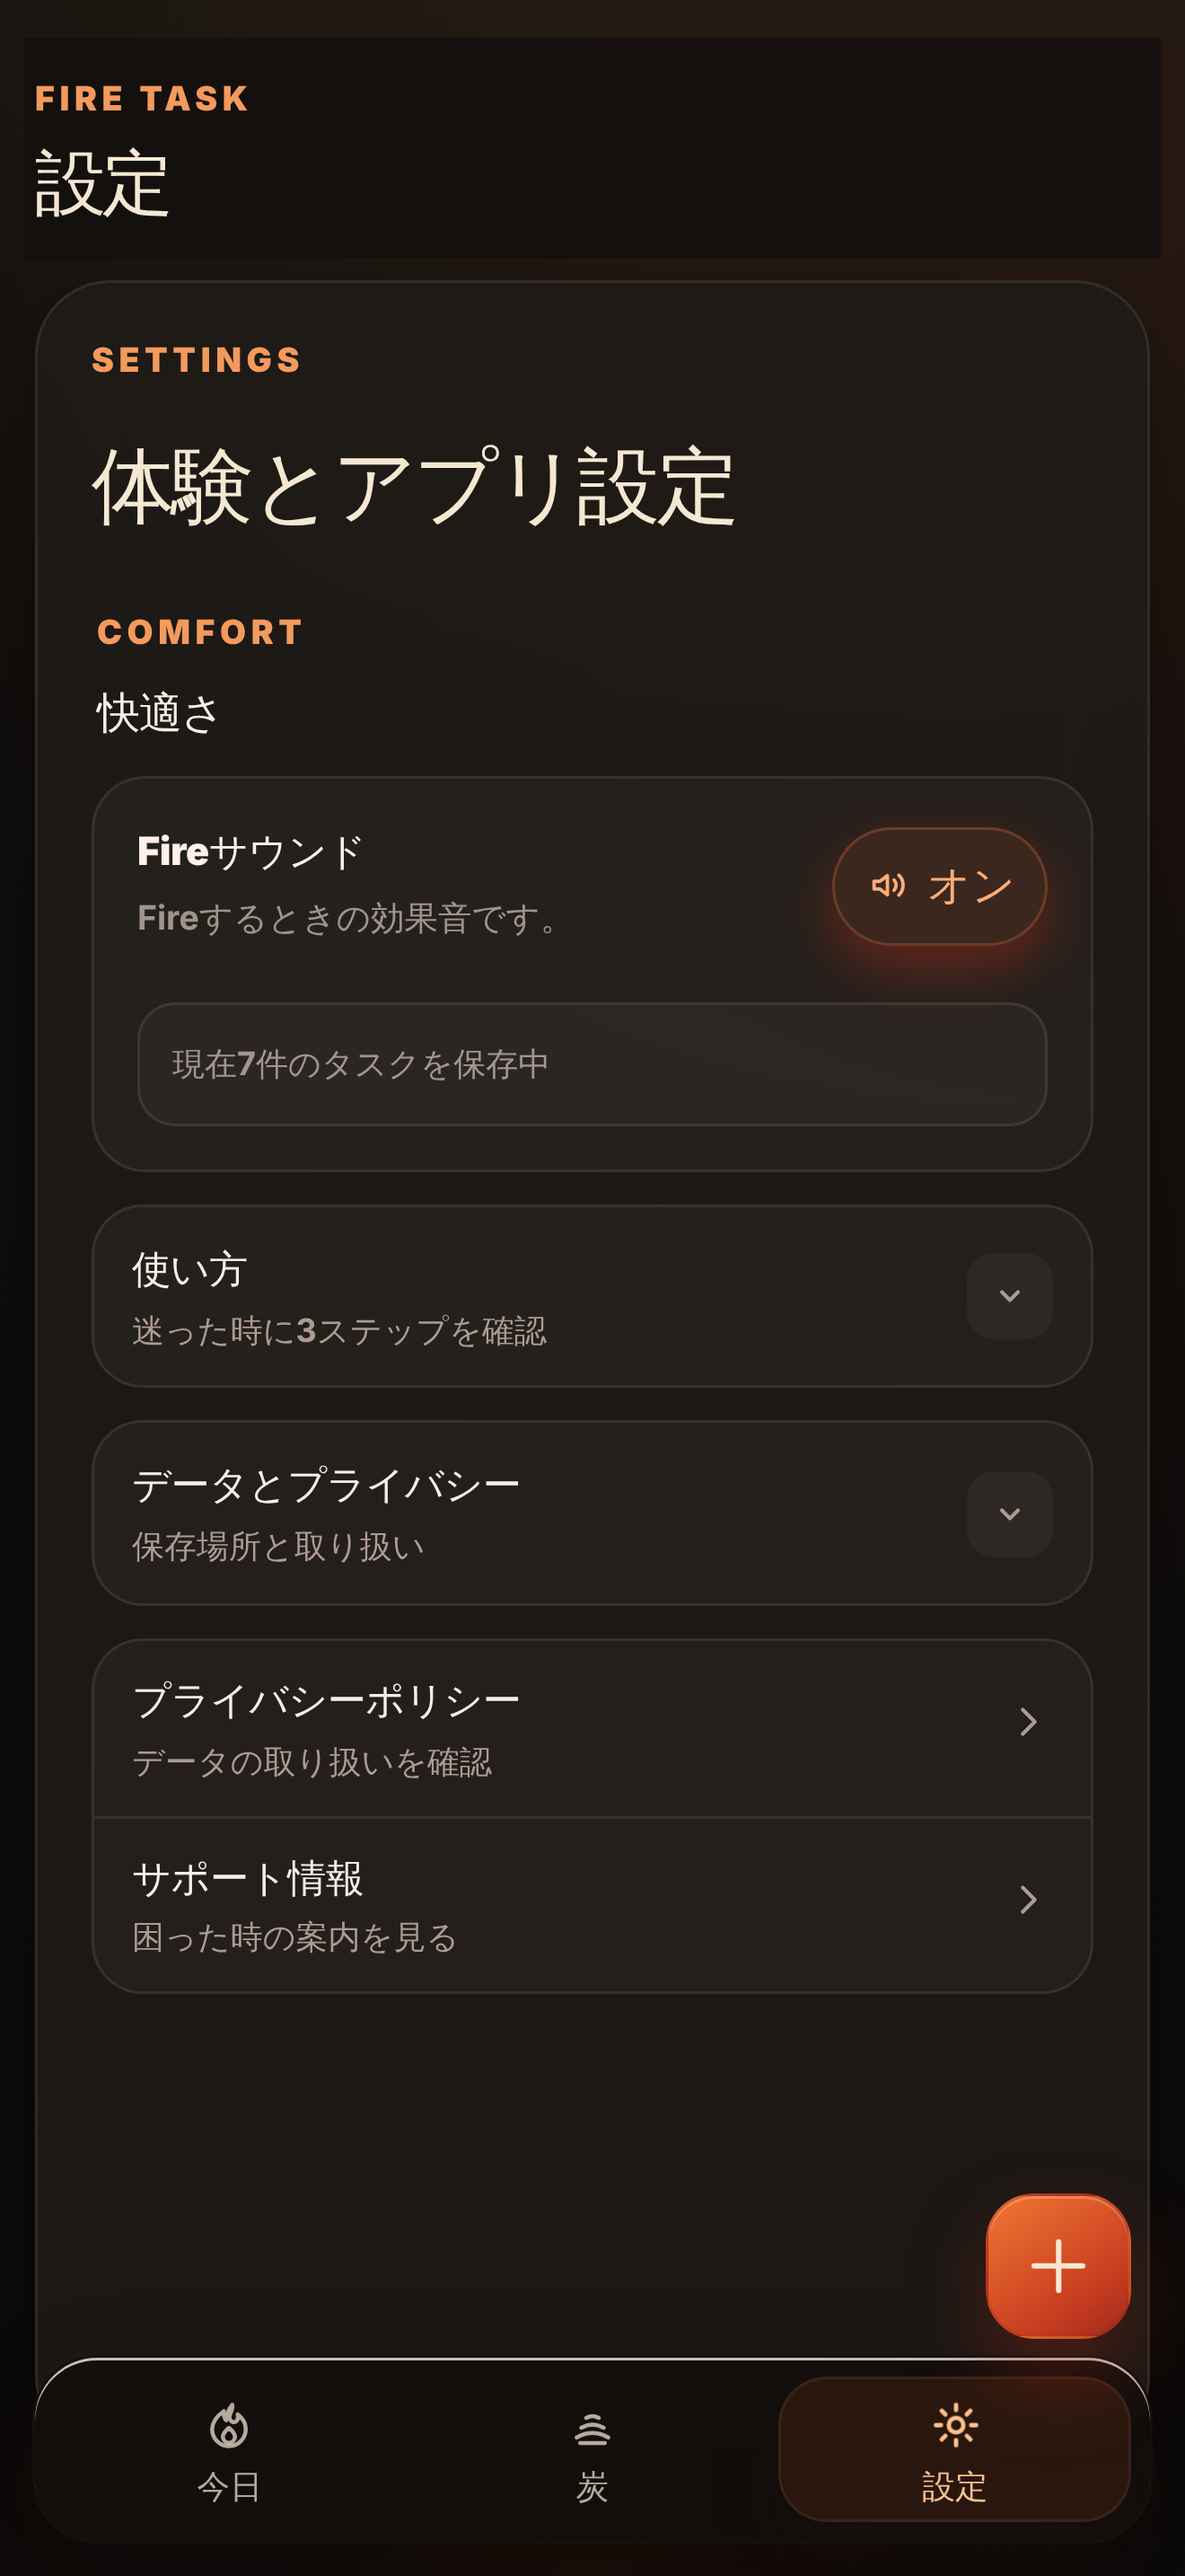
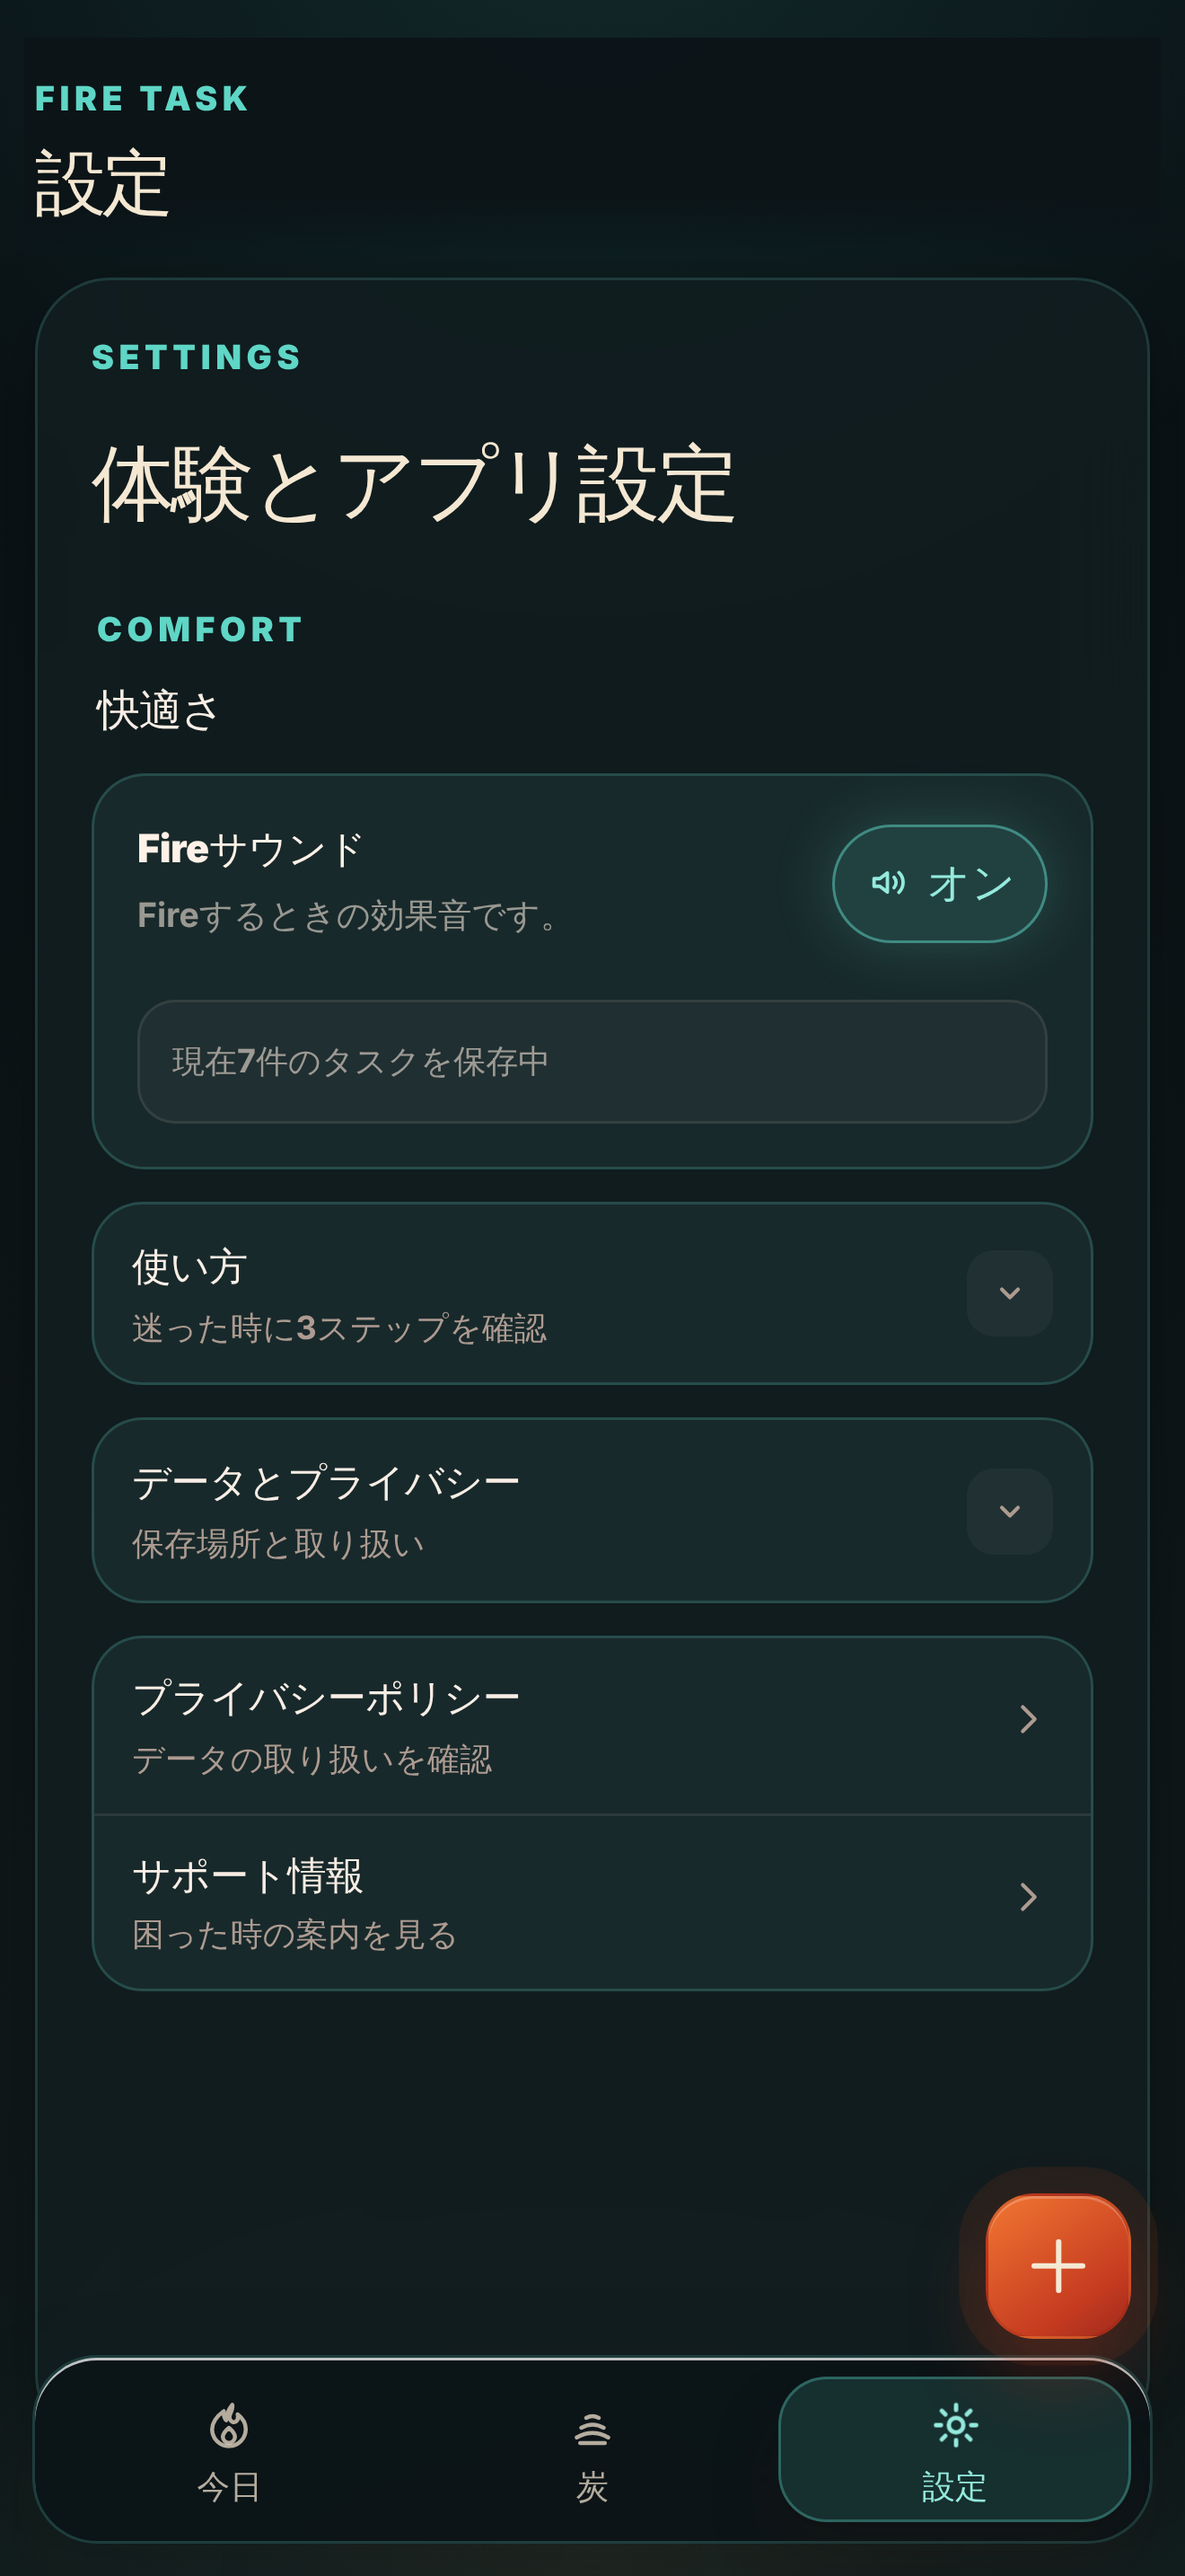
feat: 配色の多様化「夜の焚き火」（象限色・画面別トーン・背景グラデ・面の層）
- 背景を夜空の青から熾火の暖色へのグラデーションにし、一色の茶色を解消
- 象限ごとに色相を分け、カードの背骨・チップ・フィルタ・フォーカスカードに反映
- 画面別の基調色（今日=熾火／炭=灰と金／設定=青緑）とヘッダーの背景なじませ
- 冷たいパネルと温かいカードの層構造、炭の履歴は重さ別の色
- 低コントラストになった炭の日付・ラスボス色を是正、回帰防止テスト追加

Claude-Session: https://claude.ai/code/session_013JukC2dq313Z82V2p2QeL3

diff --git a/src/colorHarmony.css b/src/colorHarmony.css
@@ -1,0 +1,255 @@
+/* ══════════════════════════════════════════════════════════
+   Color harmony: 夜の焚き火
+   One palette, four jobs — so the app is no longer a single brown:
+   1. Backdrop: cool night sky above, warm embers below
+   2. Screens: 今日 = ember, 炭 = ash gold on slate, 設定 = calm teal
+   3. Quadrants: 今すぐ=ember red / 大事=amber / 先に=blue flame / あとで=lilac
+   4. Layers: cool panels hold warm task cards
+   Text colors stay light, so contrast from readabilityPolish.css is preserved.
+   ══════════════════════════════════════════════════════════ */
+
+:root {
+  /* Quadrant hues (rgb triplets so they can be tinted with alpha) */
+  --q-doNow-rgb: 255, 122, 77;
+  --q-schedule-rgb: 244, 189, 74;
+  --q-quickBurn-rgb: 92, 200, 230;
+  --q-backlog-rgb: 176, 162, 230;
+
+  /* Difficulty hues (ash history) */
+  --d-small-rgb: 127, 180, 232;
+  --d-normal-rgb: 111, 208, 168;
+  --d-heavy-rgb: 244, 178, 74;
+  --d-boss-rgb: 255, 140, 126;
+
+  /* 今日 (default) */
+  --accent: #ff9a5c;
+  --accent-soft: #ffc08f;
+  --accent-rgb: 255, 154, 92;
+  --sky: #0a0d15;
+  --mid: #121015;
+  --ground: #1e110b;
+  --glow-top: rgba(96, 124, 196, 0.17);
+  --glow-bottom: rgba(255, 106, 40, 0.22);
+  --panel-bg: rgba(26, 23, 29, 0.78);
+  --panel-border: rgba(255, 160, 110, 0.15);
+  --card-bg: rgba(46, 34, 28, 0.94);
+  --chrome-bg: rgba(14, 18, 30, 0.95);
+  --sheet-bg: #1b1613;
+}
+
+html[data-screen="ash"] {
+  --accent: #e8c867;
+  --accent-soft: #f4de9c;
+  --accent-rgb: 232, 200, 103;
+  --sky: #090d12;
+  --mid: #0f1318;
+  --ground: #17130f;
+  --glow-top: rgba(110, 152, 205, 0.16);
+  --glow-bottom: rgba(232, 200, 103, 0.12);
+  --panel-bg: rgba(20, 25, 33, 0.84);
+  --panel-border: rgba(150, 176, 212, 0.17);
+  --card-bg: rgba(31, 40, 52, 0.94);
+  --chrome-bg: rgba(13, 18, 25, 0.95);
+}
+
+html[data-screen="info"] {
+  --accent: #5fd6c6;
+  --accent-soft: #94eadd;
+  --accent-rgb: 95, 214, 198;
+  --sky: #091114;
+  --mid: #0d1517;
+  --ground: #101a1a;
+  --glow-top: rgba(76, 190, 180, 0.15);
+  --glow-bottom: rgba(60, 150, 140, 0.13);
+  --panel-bg: rgba(18, 29, 32, 0.85);
+  --panel-border: rgba(100, 212, 196, 0.17);
+  --card-bg: rgba(26, 42, 45, 0.94);
+  --chrome-bg: rgba(12, 20, 23, 0.95);
+}
+
+/* ── 1. Backdrop ── */
+html {
+  background-color: var(--mid);
+}
+
+html body {
+  background-color: var(--mid);
+  background-image:
+    radial-gradient(120% 52% at 50% -8%, var(--glow-top), transparent 62%),
+    radial-gradient(110% 48% at 50% 112%, var(--glow-bottom), transparent 66%),
+    linear-gradient(180deg, var(--sky) 0%, var(--mid) 46%, var(--ground) 100%);
+  background-attachment: fixed;
+}
+
+/* ── 2. Screen accents ── */
+html body .eyebrow,
+html body .app-kicker {
+  color: var(--accent);
+}
+
+html body .tab-button.is-active {
+  color: var(--accent-soft);
+  background: rgba(var(--accent-rgb), 0.14);
+  border-color: rgba(var(--accent-rgb), 0.32);
+}
+
+/* Header melts into the sky instead of sitting on it as a slab */
+html body .app-topbar {
+  --chrome-top-bg: linear-gradient(180deg, var(--chrome-bg) 0%, var(--chrome-bg) 74%, rgba(0, 0, 0, 0) 100%);
+  border-bottom: 0;
+  box-shadow: none;
+}
+
+html body .bottom-tabs {
+  --chrome-tabs-bg: var(--chrome-bg);
+  border-color: rgba(var(--accent-rgb), 0.22);
+}
+
+html body .toast {
+  border-left: 3px solid #f2c84b;
+}
+
+/* ── 3. Quadrant hues ── */
+[data-quadrant="doNow"],
+.matrix-cell.matrix-doNow { --q-rgb: var(--q-doNow-rgb); }
+[data-quadrant="schedule"],
+.matrix-cell.matrix-schedule { --q-rgb: var(--q-schedule-rgb); }
+[data-quadrant="quickBurn"],
+.matrix-cell.matrix-quickBurn { --q-rgb: var(--q-quickBurn-rgb); }
+[data-quadrant="backlog"],
+.matrix-cell.matrix-backlog { --q-rgb: var(--q-backlog-rgb); }
+
+/* Queue cards: warm card with a quadrant-colored spine */
+html body .fire-card:not(.is-burned)[data-quadrant] {
+  background:
+    linear-gradient(90deg, rgba(var(--q-rgb), 0.12), rgba(var(--q-rgb), 0) 64%),
+    var(--card-bg);
+  border-color: rgba(var(--q-rgb), 0.28);
+  box-shadow:
+    inset 4px 0 0 rgba(var(--q-rgb), 0.92),
+    0 10px 24px rgba(0, 0, 0, 0.3);
+}
+
+/* Quadrant chip on cards + focus card */
+html body .fire-card[data-quadrant] .card-quick-meta > :first-child,
+html body .focus-seed[data-quadrant] .focus-meta > :first-child {
+  color: rgb(var(--q-rgb));
+  background: rgba(var(--q-rgb), 0.14);
+  border-color: rgba(var(--q-rgb), 0.46);
+  font-weight: 800;
+}
+
+/* Reward chip: gold, like the ash points it turns into */
+html body .fire-card[data-quadrant] .card-quick-meta > :last-child,
+html body .focus-seed[data-quadrant] .focus-meta > :last-child {
+  color: #f6d466;
+  background: rgba(242, 200, 75, 0.1);
+  border-color: rgba(242, 200, 75, 0.36);
+}
+
+/* Focus card: the day's main fire glows in its quadrant color */
+html body .focus-seed[data-quadrant] {
+  background:
+    radial-gradient(circle at 92% -8%, rgba(var(--q-rgb), 0.32), transparent 240px),
+    linear-gradient(165deg, rgba(var(--q-rgb), 0.1), rgba(var(--q-rgb), 0) 58%),
+    rgba(37, 28, 24, 0.97);
+  border-color: rgba(var(--q-rgb), 0.38);
+  box-shadow: 0 20px 52px rgba(var(--q-rgb), 0.14), 0 14px 34px rgba(0, 0, 0, 0.38);
+}
+
+html body .focus-seed[data-quadrant] .eyebrow {
+  color: rgb(var(--q-rgb));
+}
+
+/* Quadrant filter chips */
+html body .matrix-filter-shell .matrix-summary .matrix-cell[class*="matrix-"] {
+  border-color: rgba(var(--q-rgb), 0.3);
+  background: rgba(var(--q-rgb), 0.07);
+}
+
+html body .matrix-filter-shell .matrix-summary .matrix-cell[class*="matrix-"]::before {
+  content: '';
+  flex: none;
+  width: 9px;
+  height: 9px;
+  border-radius: 50%;
+  background: rgb(var(--q-rgb));
+  box-shadow: 0 0 8px rgba(var(--q-rgb), 0.55);
+}
+
+html body .matrix-filter-shell .matrix-summary .matrix-cell[aria-pressed="true"] {
+  border-color: rgba(var(--q-rgb), 0.7);
+  background: rgba(var(--q-rgb), 0.2);
+}
+
+html body .matrix-filter-shell .matrix-summary .matrix-cell[aria-pressed="true"] > span,
+html body .matrix-filter-shell .matrix-summary .matrix-cell[aria-pressed="true"] > strong {
+  color: rgb(var(--q-rgb));
+}
+
+/* ── 4. Layers: cool panels, warm cards ── */
+html body .panel.app-panel,
+html body .task-queue-panel,
+html body .progress-disclosure {
+  background: var(--panel-bg);
+  border-color: var(--panel-border);
+}
+
+/* "4象限の結果" in the add sheet speaks in the same quadrant colors */
+html body .matrix-result-card.matrix-result-schedule {
+  background: linear-gradient(135deg, #4a3410, #8a6212);
+}
+
+html body .matrix-result-card.matrix-result-quickBurn {
+  background: linear-gradient(135deg, #0f3a47, #1b6a80);
+}
+
+html body .matrix-result-card.matrix-result-backlog {
+  background: linear-gradient(135deg, #2c2650, #4b4290);
+}
+
+/* ── 炭 screen: slate cards with a difficulty-colored spine ── */
+html[data-screen="ash"] body .ash-record-card {
+  background: var(--card-bg);
+  border-color: rgba(150, 176, 212, 0.2);
+}
+
+.ash-record-card.is-small { --d-rgb: var(--d-small-rgb); }
+.ash-record-card.is-normal { --d-rgb: var(--d-normal-rgb); }
+.ash-record-card.is-heavy { --d-rgb: var(--d-heavy-rgb); }
+.ash-record-card.is-boss { --d-rgb: var(--d-boss-rgb); }
+
+html body .ash-record-card[class*="is-"] {
+  box-shadow: inset 4px 0 0 rgba(var(--d-rgb), 0.9), 0 8px 20px rgba(0, 0, 0, 0.25);
+}
+
+html body .ash-record-card .ash-record-difficulty {
+  color: rgb(var(--d-rgb));
+  background: rgba(var(--d-rgb), 0.13);
+  border-color: rgba(var(--d-rgb), 0.45);
+  font-weight: 800;
+}
+
+html body .ash-legacy-header {
+  border-color: rgba(var(--accent-rgb), 0.28);
+}
+
+/* ── 設定 screen: calm teal ── */
+html body .comfort-settings-card,
+html body .settings-disclosure,
+html body .settings-links {
+  background: var(--card-bg);
+  border-color: rgba(var(--accent-rgb), 0.2);
+}
+
+html body .sound-pill.is-on {
+  color: var(--accent-soft);
+  background: rgba(var(--accent-rgb), 0.14);
+  border-color: rgba(var(--accent-rgb), 0.5);
+  box-shadow: 0 0 22px rgba(var(--accent-rgb), 0.22);
+}
+
+html body .ash-record-card .ash-record-date {
+  color: rgba(245, 232, 211, 0.8);
+  font-size: 0.78rem;
+}

diff --git a/src/colorHarmony.test.ts b/src/colorHarmony.test.ts
@@ -1,0 +1,47 @@
+import { readFileSync } from 'node:fs';
+import { resolve } from 'node:path';
+import { describe, expect, it } from 'vitest';
+
+describe('color harmony (夜の焚き火)', () => {
+  const css = readFileSync(resolve(__dirname, 'colorHarmony.css'), 'utf-8');
+  const main = readFileSync(resolve(__dirname, 'main.tsx'), 'utf-8');
+  const app = readFileSync(resolve(__dirname, 'App.tsx'), 'utf-8');
+  const card = readFileSync(resolve(__dirname, 'components/FireCard.tsx'), 'utf-8');
+
+  it('loads before the final readability pass so contrast fixes stay on top', () => {
+    const order = ["import './colorHarmony.css';", "import './readabilityPolish.css';"].map((line) => main.indexOf(line));
+    expect(order[0]).toBeGreaterThan(-1);
+    expect(order[0]).toBeLessThan(order[1]);
+  });
+
+  it('gives every quadrant its own hue', () => {
+    const hues = ['doNow', 'schedule', 'quickBurn', 'backlog'].map((key) => {
+      const match = css.match(new RegExp(`--q-${key}-rgb:\\s*([\\d, ]+);`));
+      expect(match).not.toBeNull();
+      return match![1].trim();
+    });
+    expect(new Set(hues).size).toBe(4);
+  });
+
+  it('themes each screen with its own accent', () => {
+    expect(css).toContain('html[data-screen="ash"]');
+    expect(css).toContain('html[data-screen="info"]');
+    const accents = [...css.matchAll(/--accent:\s*(#[0-9a-f]{6});/gi)].map((m) => m[1].toLowerCase());
+    expect(new Set(accents).size).toBe(3);
+    expect(app).toContain('document.documentElement.dataset.screen = activeTab');
+  });
+
+  it('marks cards and the focus card with their quadrant and difficulty', () => {
+    expect(card).toContain('data-quadrant={seed.quadrant}');
+    expect(card).toContain('data-difficulty={seed.difficulty}');
+    expect(app).toContain('data-quadrant={focusSeed.quadrant}');
+  });
+
+  it('keeps the backdrop a cool-to-warm gradient rather than one flat brown', () => {
+    expect(css).toMatch(/linear-gradient\(180deg, var\(--sky\) 0%, var\(--mid\) 46%, var\(--ground\) 100%\)/);
+  });
+
+  it('does not rely on color-mix (unsupported before iOS 16.2)', () => {
+    expect(css).not.toContain('color-mix');
+  });
+});

diff --git a/src/readabilityPolish.css b/src/readabilityPolish.css
@@ -66,7 +66,7 @@ body .tab-button:not(.is-active) {
 }
 
 body .tab-button.is-active {
-  color: #ffc08f;
+  color: var(--accent-soft, #ffc08f);
 }
 
 /* Meta chips on cards (priority / weight / reward) */
@@ -107,7 +107,7 @@ body .focus-seed .focus-actions .fire-button {
 
 /* Header: keep scrolled cards from showing through the pinned title */
 body .app-topbar {
-  background: rgba(20, 16, 14, 0.94);
+  background: var(--chrome-top-bg, rgba(20, 16, 14, 0.94));
   -webkit-backdrop-filter: blur(16px) saturate(1.2);
   backdrop-filter: blur(16px) saturate(1.2);
 }
@@ -132,7 +132,7 @@ body .card-delete-button svg {
 
 /* Bottom tab bar: opaque enough that scrolled cards don't ghost through the labels */
 body .bottom-tabs {
-  background: rgba(18, 15, 13, 0.95);
+  background: var(--chrome-tabs-bg, rgba(18, 15, 13, 0.95));
   -webkit-backdrop-filter: blur(18px) saturate(1.2);
   backdrop-filter: blur(18px) saturate(1.2);
 }
@@ -146,7 +146,7 @@ body .sheet-close::after {
 
 /* Sheet title band: opaque so the form content never ghosts behind the heading */
 body .sheet-drag-zone {
-  background: #1a1512;
+  background: var(--sheet-bg, #1a1512);
   position: relative;
   z-index: 2;
 }

diff --git a/src/App.tsx b/src/App.tsx
@@ -418,6 +418,7 @@ export default function App() {
   useEffect(() => {
     const tab = tabs.find((item) => item.id === activeTab);
     document.title = tab ? `${tab.label} — Fire Task` : 'Fire Task';
+    document.documentElement.dataset.screen = activeTab;
     previousTabIndexRef.current = Math.max(0, tabs.findIndex((item) => item.id === activeTab));
   }, [activeTab]);
 
@@ -543,7 +544,7 @@ export default function App() {
             ) : null}
 
             {focusSeed ? (
-              <section ref={focusSeedTiltRef} className="focus-seed" aria-label="今日の火種">
+              <section ref={focusSeedTiltRef} className="focus-seed" aria-label="今日の火種" data-quadrant={focusSeed.quadrant} data-difficulty={focusSeed.difficulty}>
                 <div className="section-heading">
                   <p className="eyebrow">今日の火種</p>
                   <h2>{jp(focusSeed.title)}</h2>

diff --git a/src/readabilityPolish.test.ts b/src/readabilityPolish.test.ts
@@ -22,7 +22,7 @@ describe('final readability pass', () => {
   it('keeps pinned chrome opaque enough that scrolled content does not ghost through', () => {
     expect(css).toMatch(/\.app-topbar\s*\{[^}]*rgba\(20, 16, 14, 0\.9\d\)/);
     expect(css).toMatch(/\.bottom-tabs\s*\{[^}]*rgba\(18, 15, 13, 0\.9\d\)/);
-    expect(css).toMatch(/\.sheet-drag-zone\s*\{[^}]*background: #1a1512/);
+    expect(css).toMatch(/\.sheet-drag-zone\s*\{[^}]*background: var\(--sheet-bg, #1a1512\)/);
   });
 
   it('does not leave inactive tabs dimmed by opacity', () => {

diff --git a/src/components/FireCard.tsx b/src/components/FireCard.tsx
@@ -46,6 +46,8 @@ export function FireCard({ seed, onFire, onDelete, isNew }: FireCardProps) {
       ref={tiltRef}
       className={`fire-card ${seed.burned ? 'is-burned' : ''} ${seed.isBurning ? 'is-burning' : ''} ${isNew ? 'is-new' : ''}`}
       aria-labelledby={titleId}
+      data-quadrant={seed.quadrant}
+      data-difficulty={seed.difficulty}
       tabIndex={-1}
     >
       <div className="card-header">

diff --git a/src/main.tsx b/src/main.tsx
@@ -42,6 +42,7 @@ import './dimensionalPolish.css';
 import './tactilePolish.css';
 import './japaneseWrap.css';
 import './quickViewPolish.css';
+import './colorHarmony.css';
 import './readabilityPolish.css';
 
 createRoot(document.getElementById('root')!).render(

diff --git a/src/quickViewPolish.css b/src/quickViewPolish.css
@@ -159,7 +159,7 @@ body #up-next-list .fire-card:not(.is-burned) .card-header .eyebrow {
 
 body #up-next-list .fire-card:not(.is-burned) .card-header h3 {
   margin: 0;
-  font-size: 1.12rem;
+  font-size: 1.06rem;
   line-height: 1.35;
 }
 
